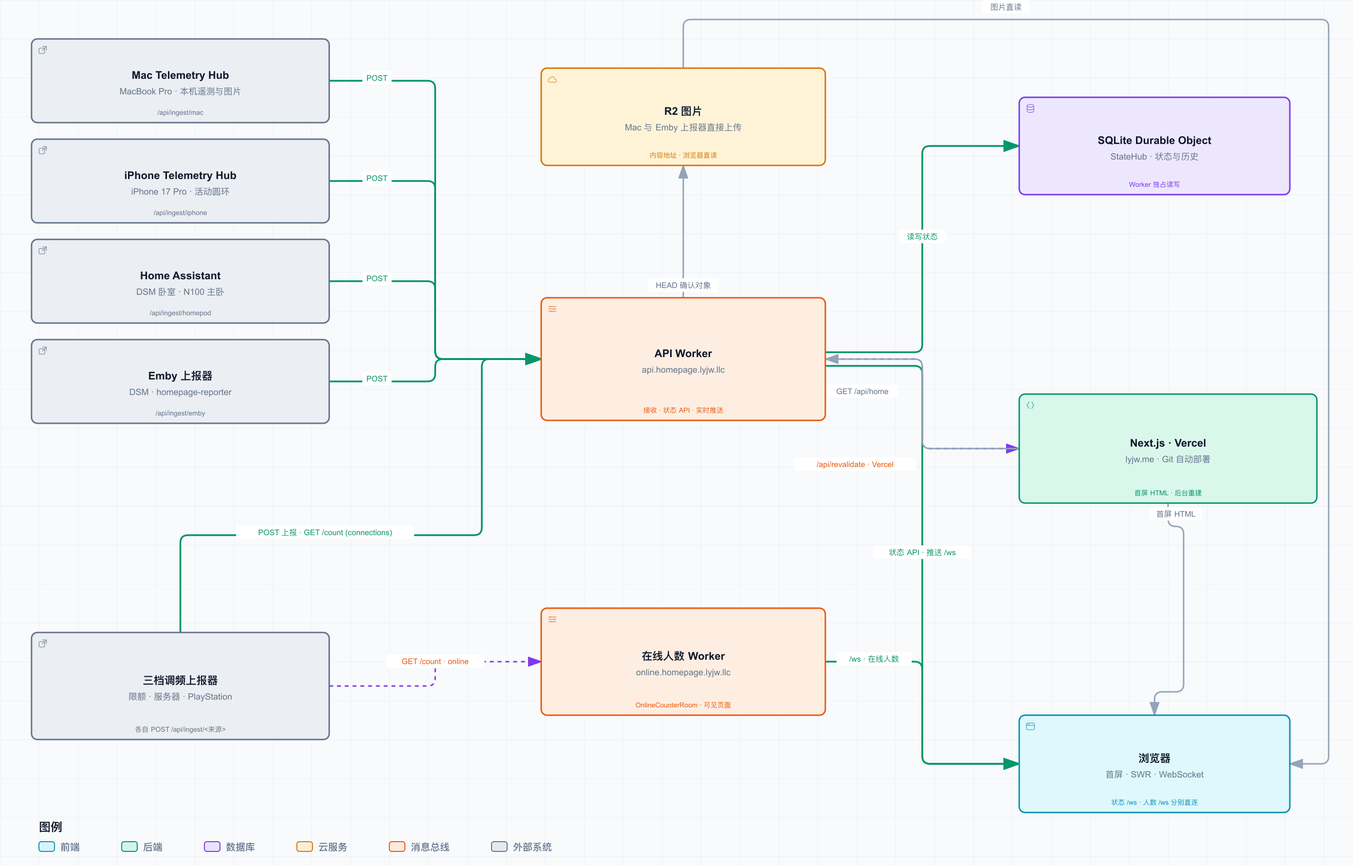
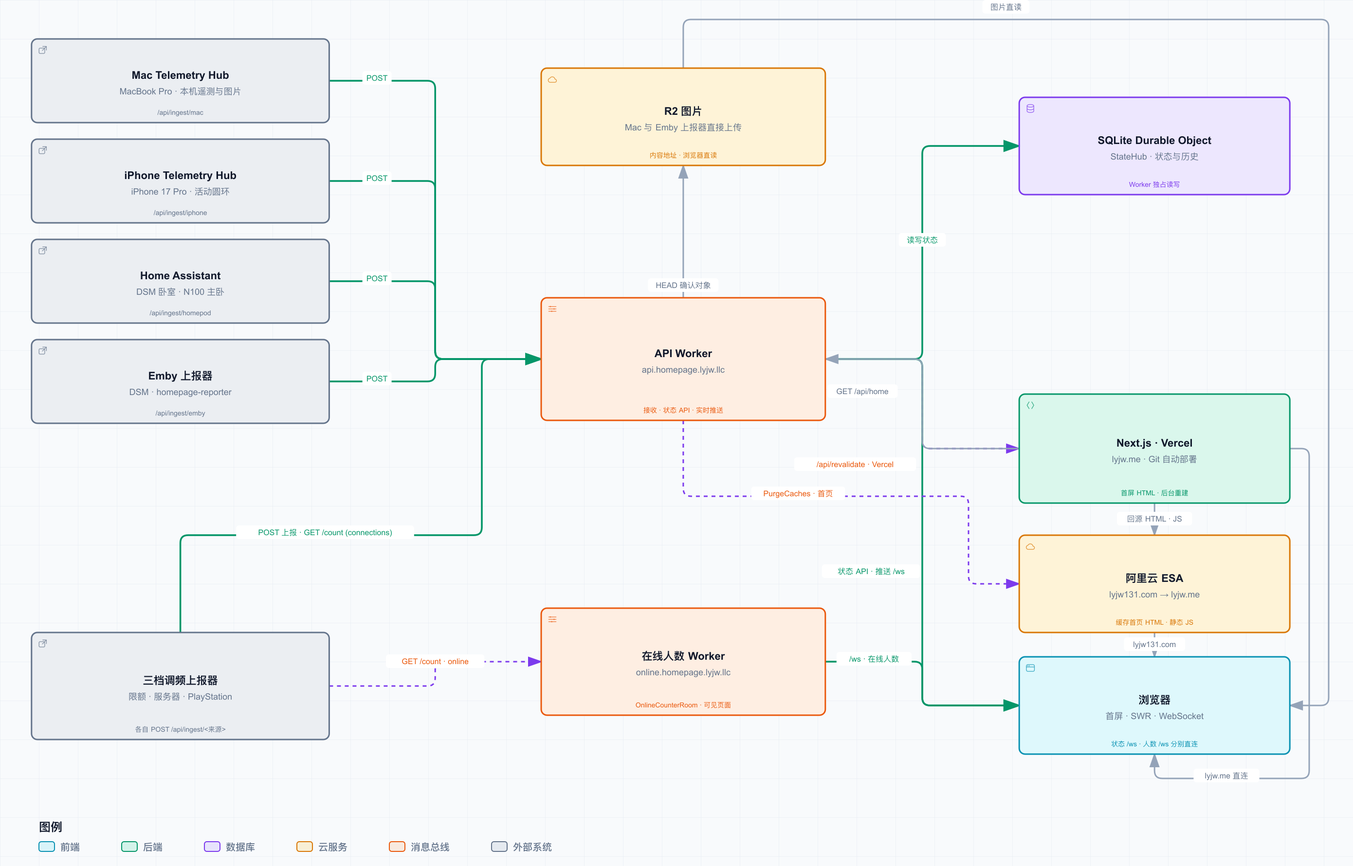
docs(architecture): 补全 ESA 首页缓存与并行刷新链路

diff --git a/docs/architecture.html b/docs/architecture.html
@@ -4952,8 +4952,8 @@
       </div>
     </div>
 
-    <script id="archify-guided-views-data" type="application/json">[{"id":"reporting","label":"全部上报器","focus":["mac_hub","iphone_hub","home_assistant","emby_proxy","api","cadence_reporters"],"note":"七个数据来源、八个运行实例，统一直连 API Worker。"},{"id":"sites","label":"站点与数据后端","focus":["api","state_hub","sites","visitors","online_counter"],"note":"API Worker 保存状态并实时推送，在线人数独立部署；Vercel 读取首屏快照。"},{"id":"cadence","label":"在线人数与调频","focus":["cadence_reporters","api","online_counter","visitors"],"note":"三个上报器并行读取 online 与 connections：页面可见走快档，仅后台打开走中档，无人走闲档。单端失败仅该端归零。"},{"id":"assets","label":"图片链路","focus":["mac_hub","emby_proxy","images","visitors"],"note":"Mac 和 Emby 上报器将图片直接上传 R2，浏览器直接取图。"}]</script>
-    <script id="archify-source-evidence-data" type="application/json">{"schemaVersion":1,"verified":true,"repository":{"url":"https://github.com/LYJW131/lyjwpage","revision":"764cbbc44546705cd11c4170619fb195383a2b04","shortRevision":"764cbbc"},"referenceCount":17,"nodes":{"mac_hub":[{"path":"docs/reporter-endpoints.md","href":"https://github.com/LYJW131/lyjwpage/blob/764cbbc44546705cd11c4170619fb195383a2b04/docs/reporter-endpoints.md"}],"iphone_hub":[{"path":"reporters/iphone-telemetry-hub/README.md","href":"https://github.com/LYJW131/lyjwpage/blob/764cbbc44546705cd11c4170619fb195383a2b04/reporters/iphone-telemetry-hub/README.md"}],"home_assistant":[{"path":"docs/reporter-endpoints.md","href":"https://github.com/LYJW131/lyjwpage/blob/764cbbc44546705cd11c4170619fb195383a2b04/docs/reporter-endpoints.md"}],"emby_proxy":[{"path":"reporters/emby-reporter/README.md","href":"https://github.com/LYJW131/lyjwpage/blob/764cbbc44546705cd11c4170619fb195383a2b04/reporters/emby-reporter/README.md"}],"api":[{"path":"workers/api/src/index.ts","href":"https://github.com/LYJW131/lyjwpage/blob/764cbbc44546705cd11c4170619fb195383a2b04/workers/api/src/index.ts"},{"path":"workers/api/wrangler.toml","href":"https://github.com/LYJW131/lyjwpage/blob/764cbbc44546705cd11c4170619fb195383a2b04/workers/api/wrangler.toml"}],"state_hub":[{"path":"workers/api/src/state-hub.ts","href":"https://github.com/LYJW131/lyjwpage/blob/764cbbc44546705cd11c4170619fb195383a2b04/workers/api/src/state-hub.ts"}],"sites":[{"path":"src/app/page.tsx","href":"https://github.com/LYJW131/lyjwpage/blob/764cbbc44546705cd11c4170619fb195383a2b04/src/app/page.tsx"},{"path":"src/lib/public-home.ts","href":"https://github.com/LYJW131/lyjwpage/blob/764cbbc44546705cd11c4170619fb195383a2b04/src/lib/public-home.ts"}],"visitors":[{"path":"src/lib/live-socket.ts","href":"https://github.com/LYJW131/lyjwpage/blob/764cbbc44546705cd11c4170619fb195383a2b04/src/lib/live-socket.ts"},{"path":"src/hooks/use-online-count.ts","href":"https://github.com/LYJW131/lyjwpage/blob/764cbbc44546705cd11c4170619fb195383a2b04/src/hooks/use-online-count.ts"}],"images":[{"path":"src/lib/r2-assets.ts","href":"https://github.com/LYJW131/lyjwpage/blob/764cbbc44546705cd11c4170619fb195383a2b04/src/lib/r2-assets.ts"}],"cadence_reporters":[{"path":"reporters/agent-limits-reporter/src/cadence.ts","href":"https://github.com/LYJW131/lyjwpage/blob/764cbbc44546705cd11c4170619fb195383a2b04/reporters/agent-limits-reporter/src/cadence.ts"},{"path":"reporters/server-reporter/reporter.py","href":"https://github.com/LYJW131/lyjwpage/blob/764cbbc44546705cd11c4170619fb195383a2b04/reporters/server-reporter/reporter.py"},{"path":"workers/playstation-reporter/src/index.ts","href":"https://github.com/LYJW131/lyjwpage/blob/764cbbc44546705cd11c4170619fb195383a2b04/workers/playstation-reporter/src/index.ts"}],"online_counter":[{"path":"workers/online-counter/src/index.ts","href":"https://github.com/LYJW131/lyjwpage/blob/764cbbc44546705cd11c4170619fb195383a2b04/workers/online-counter/src/index.ts"},{"path":"workers/online-counter/wrangler.jsonc","href":"https://github.com/LYJW131/lyjwpage/blob/764cbbc44546705cd11c4170619fb195383a2b04/workers/online-counter/wrangler.jsonc"}]}}</script>
+    <script id="archify-guided-views-data" type="application/json">[{"id":"reporting","label":"全部上报器","focus":["mac_hub","iphone_hub","home_assistant","emby_proxy","api","cadence_reporters"],"note":"七个数据来源、八个运行实例，统一直连 API Worker。"},{"id":"sites","label":"站点与数据后端","focus":["api","state_hub","sites","visitors","online_counter","esa"],"note":"Vercel 提供首屏；lyjw131.com 经 ESA 回源 lyjw.me 并缓存 HTML 与静态 JS。API 并行通知两层缓存。"},{"id":"cadence","label":"在线人数与调频","focus":["cadence_reporters","api","online_counter","visitors"],"note":"三个上报器并行读取 online 与 connections：页面可见走快档，仅后台打开走中档，无人走闲档。单端失败仅该端归零。"},{"id":"assets","label":"图片链路","focus":["mac_hub","emby_proxy","images","visitors"],"note":"Mac 和 Emby 上报器将图片直接上传 R2，浏览器直接取图。"}]</script>
+    <script id="archify-source-evidence-data" type="application/json">{"schemaVersion":1,"verified":true,"repository":{"url":"https://github.com/LYJW131/lyjwpage","revision":"1256daeda7dfe54838e0972e30f3f4f972600864","shortRevision":"1256dae"},"referenceCount":19,"nodes":{"mac_hub":[{"path":"docs/reporter-endpoints.md","href":"https://github.com/LYJW131/lyjwpage/blob/1256daeda7dfe54838e0972e30f3f4f972600864/docs/reporter-endpoints.md"}],"iphone_hub":[{"path":"reporters/iphone-telemetry-hub/README.md","href":"https://github.com/LYJW131/lyjwpage/blob/1256daeda7dfe54838e0972e30f3f4f972600864/reporters/iphone-telemetry-hub/README.md"}],"home_assistant":[{"path":"docs/reporter-endpoints.md","href":"https://github.com/LYJW131/lyjwpage/blob/1256daeda7dfe54838e0972e30f3f4f972600864/docs/reporter-endpoints.md"}],"emby_proxy":[{"path":"reporters/emby-reporter/README.md","href":"https://github.com/LYJW131/lyjwpage/blob/1256daeda7dfe54838e0972e30f3f4f972600864/reporters/emby-reporter/README.md"}],"api":[{"path":"workers/api/src/index.ts","href":"https://github.com/LYJW131/lyjwpage/blob/1256daeda7dfe54838e0972e30f3f4f972600864/workers/api/src/index.ts"},{"path":"workers/api/wrangler.toml","href":"https://github.com/LYJW131/lyjwpage/blob/1256daeda7dfe54838e0972e30f3f4f972600864/workers/api/wrangler.toml"}],"state_hub":[{"path":"workers/api/src/state-hub.ts","href":"https://github.com/LYJW131/lyjwpage/blob/1256daeda7dfe54838e0972e30f3f4f972600864/workers/api/src/state-hub.ts"}],"sites":[{"path":"src/app/page.tsx","href":"https://github.com/LYJW131/lyjwpage/blob/1256daeda7dfe54838e0972e30f3f4f972600864/src/app/page.tsx"},{"path":"src/lib/public-home.ts","href":"https://github.com/LYJW131/lyjwpage/blob/1256daeda7dfe54838e0972e30f3f4f972600864/src/lib/public-home.ts"}],"visitors":[{"path":"src/lib/live-socket.ts","href":"https://github.com/LYJW131/lyjwpage/blob/1256daeda7dfe54838e0972e30f3f4f972600864/src/lib/live-socket.ts"},{"path":"src/hooks/use-online-count.ts","href":"https://github.com/LYJW131/lyjwpage/blob/1256daeda7dfe54838e0972e30f3f4f972600864/src/hooks/use-online-count.ts"}],"images":[{"path":"src/lib/r2-assets.ts","href":"https://github.com/LYJW131/lyjwpage/blob/1256daeda7dfe54838e0972e30f3f4f972600864/src/lib/r2-assets.ts"}],"cadence_reporters":[{"path":"reporters/agent-limits-reporter/src/cadence.ts","href":"https://github.com/LYJW131/lyjwpage/blob/1256daeda7dfe54838e0972e30f3f4f972600864/reporters/agent-limits-reporter/src/cadence.ts"},{"path":"reporters/server-reporter/reporter.py","href":"https://github.com/LYJW131/lyjwpage/blob/1256daeda7dfe54838e0972e30f3f4f972600864/reporters/server-reporter/reporter.py"},{"path":"workers/playstation-reporter/src/index.ts","href":"https://github.com/LYJW131/lyjwpage/blob/1256daeda7dfe54838e0972e30f3f4f972600864/workers/playstation-reporter/src/index.ts"}],"online_counter":[{"path":"workers/online-counter/src/index.ts","href":"https://github.com/LYJW131/lyjwpage/blob/1256daeda7dfe54838e0972e30f3f4f972600864/workers/online-counter/src/index.ts"},{"path":"workers/online-counter/wrangler.jsonc","href":"https://github.com/LYJW131/lyjwpage/blob/1256daeda7dfe54838e0972e30f3f4f972600864/workers/online-counter/wrangler.jsonc"}],"esa":[{"path":"workers/api/src/esa-cache.ts","href":"https://github.com/LYJW131/lyjwpage/blob/1256daeda7dfe54838e0972e30f3f4f972600864/workers/api/src/esa-cache.ts"},{"path":"workers/api/wrangler.toml","href":"https://github.com/LYJW131/lyjwpage/blob/1256daeda7dfe54838e0972e30f3f4f972600864/workers/api/wrangler.toml"}]}}</script>
     <script id="archify-i18n-data" type="application/json">{"locale":"zh-CN","messages":{"viewer.kind.frontend":"前端","viewer.kind.backend":"后端","viewer.kind.database":"数据库","viewer.kind.cloud":"云服务","viewer.kind.security":"安全","viewer.kind.messagebus":"消息总线","viewer.kind.external":"外部系统","viewer.kind.neutral":"中性","viewer.kind.node":"节点","viewer.kind.start":"开始","viewer.kind.active":"活动","viewer.kind.waiting":"等待","viewer.kind.decision":"决策","viewer.kind.success":"成功","viewer.kind.failure":"失败","viewer.toolbar.actions":"图表操作","viewer.theme.toggle.title":"切换主题（T）","viewer.theme.toggle":"切换颜色主题","viewer.theme.dark":"深色","viewer.theme.light":"浅色","viewer.preset.choose.title":"选择视觉风格（S 循环切换）","viewer.preset.choose":"选择视觉风格","viewer.preset.style":"风格","viewer.preset.menu":"视觉风格","viewer.preset.identity":"视觉表达","viewer.preset.cycles":"S 循环切换","viewer.preset.classic":"经典","viewer.preset.classic.short":"经典","viewer.preset.classic.hint":"稳定的技术默认风格","viewer.preset.flow":"信号流","viewer.preset.flow.short":"流动","viewer.preset.flow.hint":"突出动态流向","viewer.preset.blueprint":"蓝图","viewer.preset.blueprint.hint":"工程评审","viewer.preset.editorial":"编辑风格","viewer.preset.editorial.hint":"适合发布与上线说明","viewer.preset.badge.signalFlow":"信号流","viewer.preset.badge.blueprint":"蓝图 / 修订 01","viewer.preset.badge.editorial":"编辑风格 / 现场笔记","viewer.preset.badge.editorialPlate":"ARCHIFY / 图版 04","viewer.preset.current":"当前视觉风格：{style}。选择视觉风格","viewer.motion.live":"动态","viewer.motion.still":"静态","viewer.motion.pause":"暂停动效","viewer.motion.resume":"恢复动效","viewer.motion.reduced":"已根据减少动态效果偏好暂停动效","viewer.motion.hidden":"页面不可见时已暂停动效","viewer.motion.yielding":"暂停动效；当前让位于{owner}","viewer.motion.yielding.title":"动态预览已启用 · 正在让位于{owner}","viewer.owner.story":"引导故事","viewer.owner.chapter":"当前章节","viewer.owner.chapterPreview":"章节差异预览","viewer.owner.handoff":"章节交接","viewer.owner.route":"路径探测","viewer.owner.lens":"语义透镜","viewer.owner.relationship":"关系预览","viewer.owner.intent":"意图追踪","viewer.owner.focus":"语义聚焦","viewer.owner.legend":"图例预览","viewer.owner.reader":"读者交互","viewer.present.enter":"进入演示模式","viewer.present.enter.title":"演示模式（F）","viewer.present.exit":"退出演示模式","viewer.present.exit.title":"退出演示模式（F 或 Escape）","viewer.present.present":"演示","viewer.present.exit.label":"退出","viewer.export.button":"导出","viewer.export.button.title":"导出图表（E）","viewer.export.diagram":"导出图表","viewer.export.menu":"导出","viewer.export.subtitle":"便携、整洁的输出","viewer.export.share":"分享","viewer.export.shareCard":"分享卡片","viewer.export.routeShareCard":"路径分享卡片","viewer.export.reachShareCard":"可达范围分享卡片","viewer.export.copyShareCard":"复制分享卡片","viewer.export.copyDiagram":"复制图表","viewer.export.clipboardPng":"复制 PNG 到剪贴板","viewer.export.raster":"位图","viewer.export.image":"图像","viewer.export.lossless":"无损图像","viewer.export.compact":"紧凑图像","viewer.export.modern":"现代图像格式","viewer.export.vectorMotion":"矢量与动效","viewer.export.vectorMotion.heading":"矢量与动效","viewer.export.editable":"可编辑矢量图","viewer.export.motion6s":"6 秒动效","viewer.export.unsupported":"当前浏览器不支持","viewer.export.clipboardUnsupported":"当前浏览器不支持写入图片剪贴板","viewer.export.clipboardUnsupported.period":"当前浏览器不支持写入图片剪贴板。","viewer.export.clipboardUnsupported.short":"此浏览器不支持写入图片剪贴板。","viewer.export.motionUnavailable":"当前浏览器无法录制动效","viewer.export.webmUnavailable":"当前浏览器不支持 WebM","viewer.export.failed":"导出失败：{message}","viewer.export.unknownVariant":"未知的分享卡片类型：{variant}","viewer.export.routeRequired":"请先追踪路径，再导出路径分享卡片","viewer.export.reachRequired":"请先追踪编写可达范围，再导出可达范围分享卡片","viewer.export.unknown":"未知错误","viewer.export.routeFailed":"路径分享卡片导出失败：{message}","viewer.export.reachFailed":"可达范围分享卡片导出失败：{message}","viewer.export.copyFailed":"复制失败：{message}","viewer.export.copiedPng":"已将 PNG 复制到剪贴板","viewer.export.copiedShare":"已复制分享卡片","viewer.export.downloadedShare":"已下载分享卡片","viewer.export.downloadedRoute":"已下载路径分享卡片","viewer.export.downloadedReach":"已下载可达范围分享卡片","viewer.export.downloadedWebm":"已下载 WebM","viewer.export.recording":"正在录制 6 秒动效…","viewer.export.card.routeSummary.one":"路径：{source} → {target} · {count} 个有向跳转","viewer.export.card.routeSummary.other":"路径：{source} → {target} · {count} 个有向跳转","viewer.export.card.reachSummary":"从{origin}开始的编写{direction} · {nodes} · {links} · 最深 {hops}","viewer.export.card.node.one":"{count} 个节点","viewer.export.card.node.other":"{count} 个节点","viewer.export.card.link.one":"{count} 条连接","viewer.export.card.link.other":"{count} 条连接","viewer.export.card.hop.one":"{count} 跳","viewer.export.card.hop.other":"{count} 跳","viewer.export.card.routeBadge":"ARCHIFY · 路径 · {hops}","viewer.export.card.reachBadge":"ARCHIFY · {direction}可达范围","viewer.export.card.defaultBadge":"ARCHIFY · {preset} · {theme}","viewer.export.direction.upstream":"上游","viewer.export.direction.downstream":"下游","viewer.export.error.canvasUnavailable":"无法为{label}使用画布","viewer.export.error.contextUnavailable":"无法为{label}创建二维画布上下文","viewer.export.error.toBlobUnavailable":"{label}无法使用 canvas.toBlob","viewer.export.error.toBlobNull":"{label}的 canvas.toBlob 未返回数据","viewer.export.error.variantsCombined":"无法同时组合多种分享卡片类型","viewer.export.error.viewerState":"分享卡片导出无法移除临时 Viewer 状态","viewer.export.error.routeState":"路径卡片导出无法安全保留已解析路径","viewer.export.error.reachState":"可达范围卡片导出无法安全保留编写的可达范围","viewer.export.error.webmRequirements":"WebM 动效导出需要追踪动画及浏览器 MediaRecorder 支持","viewer.export.error.mediaRecorder":"MediaRecorder 录制失败","viewer.export.error.emptyWebm":"MediaRecorder 生成了空的 WebM","viewer.export.error.webmBackground":"无法为 WebM 导出加载 SVG 背景","viewer.guided.region":"图表引导视图","viewer.guided.previous":"上一个引导视图","viewer.guided.previous.title":"上一个引导视图（[）","viewer.guided.next":"下一个引导视图","viewer.guided.next.title":"下一个引导视图（]）","viewer.guided.views":"引导视图","viewer.guided.explore":"探索此系统","viewer.guided.intro":"沿精选路径逐步查看，而不改变源图表。","viewer.guided.trail":"故事轨迹","viewer.guided.beat":"节点","viewer.guided.nextBeat":"下一步","viewer.guided.play":"播放引导故事","viewer.guided.play.title":"播放引导故事（P）","viewer.guided.pause":"暂停引导故事","viewer.guided.pause.title":"暂停引导故事（P）","viewer.guided.replay":"重播引导故事","viewer.guided.replay.title":"重播引导故事（P）","viewer.guided.playStory":"播放故事","viewer.guided.pauseStory":"暂停","viewer.guided.replayStory":"重播故事","viewer.guided.motionUnavailable":"静态模式下无法播放故事","viewer.guided.enableMotion":"切换为动态模式以播放引导故事","viewer.guided.selectBeatLink":"选择故事节点以复制其精确链接","viewer.guided.copyMoment":"复制此刻","viewer.guided.momentCopied":"已复制时刻链接","viewer.guided.momentCopyFailed":"无法复制故事时刻链接","viewer.guided.copied":"已复制","viewer.guided.copyFailed":"复制失败","viewer.guided.showAll":"显示全部","viewer.guided.showAll.aria":"显示完整图表","viewer.guided.chapters":"故事章节","viewer.guided.storyTrail":"{label}的故事轨迹：{count} 个节点","viewer.guided.chapter.open":"打开第 {index}/{total} 章：{label}，{count} 个停靠点","viewer.guided.chapter.current":"当前第 {index}/{total} 章：{label}，{count} 个停靠点","viewer.guided.chapter.selectedNodes":"已选择 {count} 个节点","viewer.guided.chapter.stops":"{count} 个停靠点","viewer.guided.chapter.stop.one":"{count} 个停靠点","viewer.guided.chapter.stop.other":"{count} 个停靠点","viewer.guided.chapter.current.title":"{label} — 当前章节，{count} 个停靠点","viewer.guided.chapter.delta.expanded":"{stay} 个保留，{enter} 个进入，{leave} 个离开","viewer.guided.chapter.delta.aria":"打开第 {index}/{total} 章：{label}。章节聚焦差异：{delta}","viewer.guided.chapter.delta.title":"{label} — 章节聚焦 {delta}","viewer.guided.handoff":"{from} → {to} · 经由{label}","viewer.guided.share.chapter":"章节 {index} / {total}","viewer.guided.share.initial":"章节 01 / 01","viewer.guided.share.default":"引导章节","viewer.guided.state.ready":"就绪","viewer.guided.state.playing":"播放中","viewer.guided.state.settled":"已完成","viewer.guided.state.paused":"已暂停","viewer.guided.state.pinned":"已固定","viewer.guided.state.still":"静态","viewer.guided.share.step":"步骤 {index} / {total} · {label}","viewer.guided.share.staticMoment":"{step} · 静态时刻","viewer.guided.share.complete":"{count} 个步骤已完成 · {note}","viewer.guided.share.settled":"路径已稳定，可供阅读。","viewer.guided.share.staticPath":"{count} 个步骤 · 静态路径","viewer.guided.share.ready":"{count} 个步骤 · 就绪","viewer.guided.share.aria":"{state}，第 {index}/{total} 章：{label}。{beat}。{route}","viewer.guided.beat.start":"节点 {index} / {total} · {label} · 起点","viewer.guided.beat.forward":"节点 {index} / {total} · {from} → {to}","viewer.guided.beat.reverse":"节点 {index} / {total} · {from} → {to} · 反向编写连接","viewer.guided.beat.multiple":"节点 {index} / {total} · {from} ⇄ {to} · {count} 条编写连接","viewer.guided.beat.group":"节点 {index} / {total} · {from} · {to} · 分组 · 无直接连接","viewer.guided.beat.aria.prefix":"故事节点 {index}/{total}：{label}。","viewer.guided.beat.aria.start":"起点。","viewer.guided.beat.aria.forward":"从{from}经一条正向编写关系到达。","viewer.guided.beat.aria.reverse":"从{from}出发；编写关系实际由{to}指向{from}。","viewer.guided.beat.aria.multiple":"从{from}经 {count} 条编写关系到达；不使用任意动效。","viewer.guided.beat.aria.group":"与{from}分组展示，没有直接编写关系。","viewer.guided.caption.start":"起点","viewer.guided.caption.grouped":"分组过渡 · 无直接编写连接","viewer.guided.caption.more":" +另外 {count} 条","viewer.guided.caption.reverse":"反向编写关系","viewer.guided.caption.relationships":"{count} 条编写关系","viewer.guided.caption.relationship":"编写关系","viewer.guided.caption.direction":"编写方向：{from} → {to}","viewer.guided.caption.starting":"编写起点","viewer.guided.beatLink":"复制当前故事时刻链接：第 {index}/{total} 个节点：{label}","viewer.guided.noStory":"此图表没有编写引导故事。","viewer.guide.eyebrow":"图表指南","viewer.guide.close":"关闭图表指南","viewer.guide.inspecting":"正在检查已编译语义","viewer.guide.actions":"图表探索操作","viewer.guide.find":"查找任意节点","viewer.guide.find.hint":"搜索标签、职责、类型和稳定 ID。","viewer.guide.route":"追踪路径","viewer.guide.route.aria":"追踪有向路径","viewer.guide.route.hint":"查看两个语义节点如何按编写方向连接。","viewer.guide.map":"查看完整系统","viewer.guide.map.hint":"打开带实时视口和稳定节点的语义雷达。","viewer.guide.lens":"比较语义类型","viewer.guide.lens.hint":"统计角色、显示流量并比较直接编写的连接。","viewer.guide.story":"播放引导故事","viewer.guide.story.hint":"浏览已编写的章节和真实关系。","viewer.guide.present":"进入演示模式","viewer.guide.present.hint":"让实时图表占满视口，同时不改变导出。","viewer.guide.shortcuts":"其他键盘快捷键","viewer.guide.shortcut.export":"导出","viewer.guide.shortcut.theme":"主题","viewer.guide.shortcut.style":"风格","viewer.guide.shortcut.reset":"重置","viewer.guide.shortcut.zoomIn":"放大","viewer.guide.shortcut.zoomOut":"缩小","viewer.guide.shortcut.close":"关闭","viewer.guide.facts":"{nodes} · {relationships} · {views}","viewer.guide.fact.node.one":"{count} 个语义节点","viewer.guide.fact.node.other":"{count} 个语义节点","viewer.guide.fact.relationship.one":"{count} 条关系","viewer.guide.fact.relationship.other":"{count} 条关系","viewer.guide.fact.view.one":"{count} 个引导视图","viewer.guide.fact.view.other":"{count} 个引导视图","viewer.guide.story.available.one":"浏览 {count} 个已编写章节及其真实关系。","viewer.guide.story.available.other":"浏览 {count} 个已编写章节及其真实关系。","viewer.guide.story.unavailable":"此图表没有编写引导故事。","viewer.guide.open":"打开图表指南","viewer.guide.noStory":"此图表没有编写引导故事。","viewer.finder.title":"查找节点","viewer.finder.close":"关闭节点查找器","viewer.finder.placeholder":"搜索标签或 ID","viewer.finder.search":"搜索图表节点","viewer.finder.results":"图表节点","viewer.finder.empty":"没有匹配的节点","viewer.finder.result.focus":"聚焦{label}","viewer.finder.result.routeStart":"选择{label}作为路径起点","viewer.finder.result.routeTarget":"选择{label}作为路径终点，{links}","viewer.finder.status.empty":"没有匹配的节点","viewer.finder.status.count.one":"{count} 个匹配节点","viewer.finder.status.count.other":"{count} 个匹配节点","viewer.finder.noun.nodes":"个节点","viewer.finder.link.one":"{count} 条连接","viewer.finder.link.other":"{count} 条连接","viewer.finder.result.focus.one":"聚焦{label}，{count} 条相关连接","viewer.finder.result.focus.other":"聚焦{label}，{count} 条相关连接","viewer.finder.status.filtered":"{visible}/{available} {noun}","viewer.finder.status.all":"{available} {noun}","viewer.passport.eyebrow":"语义护照","viewer.passport.metadata":"节点元数据","viewer.passport.evidence":"已验证的源代码证据","viewer.passport.verified":"已验证来源","viewer.passport.reach":"编写可达范围","viewer.passport.reach.trace":"追踪编写的可达性","viewer.passport.upstream":"上游","viewer.passport.downstream":"下游","viewer.passport.upstream.trace":"追踪上游编写可达性","viewer.passport.downstream.trace":"追踪下游编写可达性","viewer.passport.close":"关闭语义护照","viewer.passport.copy":"复制链接","viewer.passport.copy.focus":"复制聚焦节点的链接","viewer.passport.relations":"关系","viewer.passport.relations.show":"显示关联关系","viewer.passport.relations.hide":"隐藏关联关系","viewer.passport.relations.list":"关联关系","viewer.passport.copyRelation":"复制关系","viewer.passport.copyNode":"复制节点","viewer.passport.copyPinned":"复制固定关系的链接","viewer.passport.copySource":"复制来源节点的链接","viewer.passport.copy.focused.success":"已复制聚焦节点链接","viewer.passport.copy.pinned.success":"已复制固定关系链接","viewer.passport.copy.focused.failed":"无法复制聚焦节点链接","viewer.passport.copy.pinned.failed":"无法复制固定关系链接","viewer.passport.relationship.none":"没有关联关系","viewer.passport.relationship.count.one":"{count} 条关系","viewer.passport.relationship.count.other":"{count} 条关系","viewer.passport.relationship.show.one":"显示 {count} 条关联关系","viewer.passport.relationship.show.other":"显示 {count} 条关联关系","viewer.passport.relationship.summary":"{out} 条出向 · {in} 条入向{loops}","viewer.passport.relationship.loops":" · {count} 条自环","viewer.passport.relationship.explorer":"直接关系浏览器","viewer.passport.relationship.help":"使用方向键浏览关系。按 Enter 或空格键固定详情；按 Escape 清除。","viewer.passport.relationship.loopsBack":"回环","viewer.passport.relationship.connectsTo":"连接到","viewer.passport.relationship.connectsFrom":"连接自","viewer.passport.relationship.pinned":"已固定关系 · {from} → {to} · {label}","viewer.passport.relationship.inspect":"检查第 {index}/{total} 条关系：{from} 到 {to}，{label}。按 Enter 查看详情。","viewer.passport.relationship.group.out":"出向","viewer.passport.relationship.group.in":"入向","viewer.passport.relationship.group.loop":"自环","viewer.passport.relationship.row":"{group}：{relationship}，{neighbor}","viewer.passport.relationship.direction.out":"出 →","viewer.passport.relationship.direction.in":"← 入","viewer.passport.relationship.direction.loop":"自环","viewer.passport.sourceCount.one":"{count} 个已验证来源引用","viewer.passport.sourceCount.other":"{count} 个已验证来源引用","viewer.passport.sourceMarker":"来源","viewer.passport.beacon.one":"{count} 个已验证来源；聚焦此节点以检查","viewer.passport.beacon.other":"{count} 个已验证来源；聚焦此节点以检查","viewer.passport.repository.open":"打开已验证的仓库修订版本 {revision}","viewer.passport.source.open":"打开修订版本 {revision} 中已验证的来源 {path}","viewer.passport.source.openLink":"打开 ↗","viewer.passport.reach.upstream.one":"追踪 {count} 个上游编写节点","viewer.passport.reach.upstream.other":"追踪 {count} 个上游编写节点","viewer.passport.reach.downstream.one":"追踪 {count} 个下游编写节点","viewer.passport.reach.downstream.other":"追踪 {count} 个下游编写节点","viewer.passport.reach.noUpstream":"没有上游编写节点","viewer.passport.reach.noDownstream":"没有下游编写节点","viewer.passport.reach.status":"{direction} · {nodes} 个节点 · {links} 条连接 · 最深 {hops} 跳","viewer.route.eyebrow":"路径探测","viewer.route.start":"选择起点节点","viewer.route.start.find":"查找起点","viewer.route.start.find.aria":"查找路径起点","viewer.route.copy":"复制链接","viewer.route.copy.aria":"复制已追踪路径的链接","viewer.route.clear":"清除","viewer.route.clear.aria":"清除路径探测","viewer.route.traced":"已追踪路径","viewer.route.pickTwo":"在图表中选择两个语义节点","viewer.route.pickOne":"在图表中选择一个语义节点","viewer.route.controls":"路径旅程控制","viewer.route.previous":"上一个路径位置","viewer.route.play":"播放路径旅程","viewer.route.pause":"暂停路径旅程","viewer.route.replay":"重播路径旅程","viewer.route.next":"下一个路径位置","viewer.route.journey":"旅程","viewer.route.pause.label":"暂停","viewer.route.replay.label":"重播","viewer.route.overview":"总览","viewer.route.overview.aria":"显示完整路径总览","viewer.route.instructions":"先选择来源，再选择目标；方向很重要。","viewer.route.destination":"选择从{label}出发的目标","viewer.route.destination.find":"查找目标","viewer.route.destination.find.aria":"查找可达的路径目标","viewer.route.differentDestination":"选择其他目标","viewer.route.distinct":"一条路径需要两个不同的语义节点。","viewer.route.unreachable":"没有通往{label}的有向路径","viewer.route.unreachable.detail":"从{source}无法到达{target}。请选择高亮的目标。","viewer.route.start.instructions":"选择来源。下一步只会显示有向可达的目标。","viewer.route.copy.success":"已复制路径链接","viewer.route.copy.failed":"无法复制路径链接","viewer.route.position":"路径位置 {index}/{total}：{label}","viewer.route.step":"第 {index}/{total} 步 · {phase} · {label}","viewer.route.motionRequired":"自动旅程需要动态模式","viewer.route.trigger.clear":"清除已追踪路径","viewer.route.overview.status":"{nodes} · {hops} · 最短编写路径","viewer.route.overview.node.one":"{count} 个节点","viewer.route.overview.node.other":"{count} 个节点","viewer.route.overview.hop.one":"{count} 个有向跳转","viewer.route.overview.hop.other":"{count} 个有向跳转","viewer.route.phase.playing":"播放中","viewer.route.phase.complete":"已完成","viewer.route.phase.inspecting":"检查中","viewer.route.destination.count.one":"有 {count} 个有向目标可用。请选择高亮节点。","viewer.route.destination.count.other":"有 {count} 个有向目标可用。请选择高亮节点。","viewer.route.noOutgoing":"此处没有可用的出向路径。请清除后选择其他来源。","viewer.route.result.title":"{source} 到 {target}","viewer.route.finder.source.title":"选择路径起点","viewer.route.finder.source.placeholder":"搜索路径来源","viewer.route.finder.source.empty":"没有匹配的路径来源","viewer.route.finder.source.results":"可作为路径起点的节点","viewer.route.finder.source.noun":"个路径来源","viewer.route.finder.source.badge":"起点","viewer.route.finder.target.title":"从{label}出发的目标","viewer.route.finder.target.placeholder":"搜索可达目标","viewer.route.finder.target.empty":"没有匹配的可达目标","viewer.route.finder.target.results":"可达路径目标","viewer.route.finder.target.noun":"个可达目标","viewer.route.hop.one":"{count} 跳","viewer.route.hop.other":"{count} 跳","viewer.lens.eyebrow":"语义透镜","viewer.lens.title":"比较系统角色","viewer.lens.close":"关闭语义透镜","viewer.lens.instruction":"最多选择两种语义类型。选择一种可显示其真实流量；选择两种只比较直接编写的关系。","viewer.lens.kinds":"语义类型","viewer.lens.choose":"选择一种类型以检查其节点和相连关系。","viewer.lens.copy":"复制语义透镜链接","viewer.lens.clear":"清除语义透镜","viewer.lens.open":"打开语义透镜","viewer.lens.openActive":"打开当前语义透镜","viewer.lens.legend":"语义图例","viewer.lens.legend.inspect.one":"检查{label}，{count} 个节点","viewer.lens.legend.inspect.other":"检查{label}，{count} 个节点","viewer.lens.kind.count.one":"{label}，{count} 个节点","viewer.lens.kind.count.other":"{label}，{count} 个节点","viewer.lens.compare.one":"{first} → {second}：{forward} · {second} → {first}：{reverse} · 共 {count} 条直接关系","viewer.lens.compare.other":"{first} → {second}：{forward} · {second} → {first}：{reverse} · 共 {count} 条直接关系","viewer.lens.single":"{nodes} · {relationships} · 已连接节点保持可见","viewer.lens.node.one":"{count} 个{label}节点","viewer.lens.node.other":"{count} 个{label}节点","viewer.lens.relationship.one":"{count} 条相连关系","viewer.lens.relationship.other":"{count} 条相连关系","viewer.radar.title":"语义雷达","viewer.radar.building":"正在构建总览","viewer.radar.openFull":"打开完整语义雷达","viewer.radar.open":"打开雷达","viewer.radar.close":"关闭语义雷达","viewer.radar.surface":"图表总览。点击节点进行聚焦，或使用方向键平移。","viewer.radar.click":"点击节点","viewer.radar.drag":"拖动平移","viewer.radar.space":"语义雷达需要更多地图可见空间。","viewer.radar.nodes":"语义图表雷达节点","viewer.radar.focus":"从语义雷达聚焦{label}","viewer.radar.status":"{count} 个节点 · {viewport}","viewer.radar.fullMap":"{count} 个节点 · 完整地图","viewer.radar.compacted":"已收紧雷达，避免遮挡语义护照或地图控件。","viewer.radar.cancelWaiting":"取消等待更多地图空间的语义雷达","viewer.radar.needsSpace":"语义雷达需要更多可见地图空间","viewer.radar.viewport.full":"完整地图","viewer.radar.viewport.width":"宽度 {percent}%","viewer.radar.viewport.scale":"视口 {percent}%","viewer.nav.controls":"图表视图控制","viewer.nav.route":"追踪有向路径","viewer.nav.route.title":"追踪路径（R）","viewer.nav.route.short":"路径","viewer.nav.radar":"打开语义雷达","viewer.nav.radar.title":"语义雷达（M）","viewer.nav.radar.short":"地图","viewer.nav.lens":"打开语义透镜","viewer.nav.lens.title":"语义透镜（L）","viewer.nav.lens.short":"透镜","viewer.nav.find":"查找节点","viewer.nav.find.title":"查找节点（/）","viewer.nav.guide":"打开图表指南","viewer.nav.guide.title":"图表指南（?）","viewer.nav.zoomOut":"缩小","viewer.nav.zoomOut.title":"缩小（-）","viewer.nav.reset":"重置图表视图","viewer.nav.reset.title":"重置视图（0）","viewer.nav.read":"阅读","viewer.nav.zoomIn":"放大","viewer.nav.zoomIn.title":"放大（+）","viewer.nav.camera":"{hint}。重置图表视图","viewer.nav.camera.title":"{semantic}{hint} · 重置视图（0）","viewer.nav.camera.semantic":"语义相机已启用 · ","viewer.nav.level.map":"概览","viewer.nav.level.read":"阅读","viewer.nav.level.full":"完整","viewer.nav.level.auto":"自动","viewer.nav.detail.map":"放大以显示关系标签和节点上下文","viewer.nav.detail.read":"再次放大以显示标签和注释","viewer.nav.detail.full":"完整图表详情","viewer.intent.summary":"{label}。{out} 条出向，{in} 条入向{loops}。共 {total} 条连接。按 Enter 查看详情。","viewer.intent.loops":"，{count} 条自环","viewer.common.copied":"已复制","viewer.common.copyFailed":"复制失败","viewer.common.copyLink":"复制链接","viewer.common.clear":"清除","viewer.common.close":"关闭"}}</script>
     <div class="guided-views no-print" id="guided-views" hidden aria-label="图表引导视图">
       <button id="guided-view-prev" type="button" aria-label="上一个引导视图" title="上一个引导视图（[）">&#8592;</button>
@@ -5030,16 +5030,19 @@
         <path data-edge-from="iphone_hub" data-edge-to="api" data-edge-label="POST" data-edge-key="1" data-edge-id="post_iphone" data-composition-points="338.2,186;447.1,186;447.1,369;556,369" d="M 338.2 186 L 439.1 186 Q 447.1 186 447.1 194 L 447.1 361 Q 447.1 369 455.1 369 L 556 369" class="a-emphasis" stroke-width="1.8" marker-end="url(#arrowhead-emphasis)"/>
         <path data-edge-from="home_assistant" data-edge-to="api" data-edge-label="POST" data-edge-key="2" data-edge-id="post_homepod" data-composition-points="338.2,289;447.1,289;447.1,369;556,369" d="M 338.2 289 L 439.1 289 Q 447.1 289 447.1 297 L 447.1 361 Q 447.1 369 455.1 369 L 556 369" class="a-emphasis" stroke-width="1.8" marker-end="url(#arrowhead-emphasis)"/>
         <path data-edge-from="emby_proxy" data-edge-to="api" data-edge-label="POST" data-edge-key="3" data-edge-id="post_emby" data-composition-points="338.2,392;447.1,392;447.1,369;556,369" d="M 338.2 392 L 439.1 392 Q 447.1 392 447.1 384 L 447.1 377 Q 447.1 369 455.1 369 L 556 369" class="a-emphasis" stroke-width="1.8" marker-end="url(#arrowhead-emphasis)"/>
-        <path data-edge-from="api" data-edge-to="state_hub" data-edge-label="读写状态" data-edge-key="4" data-edge-id="store" data-composition-points="847.9,362;947.5,362;947.5,150;1047.1,150" d="M 847.9 362 L 939.5 362 Q 947.5 362 947.5 354 L 947.5 158 Q 947.5 150 955.5 150 L 1047.1 150" class="a-emphasis" stroke-width="1.8" marker-end="url(#arrowhead-emphasis)"/>
+        <path data-edge-from="api" data-edge-to="state_hub" data-edge-label="读写状态" data-edge-key="4" data-edge-id="store" data-composition-points="847.9,369;947.5,369;947.5,150;1047.1,150" d="M 847.9 369 L 939.5 369 Q 947.5 369 947.5 361 L 947.5 158 Q 947.5 150 955.5 150 L 1047.1 150" class="a-emphasis" stroke-width="1.8" marker-end="url(#arrowhead-emphasis)"/>
         <path data-edge-from="api" data-edge-to="sites" data-edge-label="/api/revalidate · Vercel" data-edge-key="5" data-edge-id="revalidate" data-composition-points="847.9,369;947.5,369;947.5,461;1047.1,461" d="M 847.9 369 L 939.5 369 Q 947.5 369 947.5 377 L 947.5 453 Q 947.5 461 955.5 461 L 1047.1 461" class="a-dashed" stroke-width="1.5" marker-end="url(#arrowhead-dashed)"/>
-        <path data-edge-from="sites" data-edge-to="visitors" data-edge-label="首屏 HTML" data-edge-key="6" data-edge-id="page" data-composition-points="1200,517;1200,541;1216,541;1216,711;1186.1,711;1186.1,735" d="M 1200 517 L 1200 533 Q 1200 541 1208 541 L 1208 541 Q 1216 541 1216 549 L 1216 703 Q 1216 711 1208 711 L 1194.1 711 Q 1186.1 711 1186.1 719 L 1186.1 735" class="a-default" stroke-width="1.5" marker-end="url(#arrowhead)"/>
-        <path data-edge-from="api" data-edge-to="visitors" data-edge-label="状态 API · 推送 /ws" data-edge-key="7" data-edge-id="push" data-composition-points="847.9,376;947.5,376;947.5,785;1047.1,785" d="M 847.9 376 L 939.5 376 Q 947.5 376 947.5 384 L 947.5 777 Q 947.5 785 955.5 785 L 1047.1 785" class="a-emphasis" stroke-width="1.8" marker-end="url(#arrowhead-emphasis)"/>
+        <path data-edge-from="sites" data-edge-to="visitors" data-edge-label="lyjw.me 直连" data-edge-key="6" data-edge-id="page" data-composition-points="1325.1,461;1345,461;1345,800;1186.1,800;1186.1,775" d="M 1325.1 461 L 1337 461 Q 1345 461 1345 469 L 1345 792 Q 1345 800 1337 800 L 1194.1 800 Q 1186.1 800 1186.1 792 L 1186.1 775" class="a-default" stroke-width="1.5" marker-end="url(#arrowhead)"/>
+        <path data-edge-from="api" data-edge-to="visitors" data-edge-label="状态 API · 推送 /ws" data-edge-key="7" data-edge-id="push" data-composition-points="847.9,369;947.5,369;947.5,725;1047.1,725" d="M 847.9 369 L 939.5 369 Q 947.5 369 947.5 377 L 947.5 717 Q 947.5 725 955.5 725 L 1047.1 725" class="a-emphasis" stroke-width="1.8" marker-end="url(#arrowhead-emphasis)"/>
         <path data-edge-from="api" data-edge-to="images" data-edge-label="HEAD 确认对象" data-edge-key="8" data-edge-id="head" data-composition-points="701.95,306;701.95,170" d="M 701.95 306 L 701.95 170" class="a-default" stroke-width="1.5" marker-end="url(#arrowhead)"/>
-        <path data-edge-from="images" data-edge-to="visitors" data-edge-label="图片直读" data-edge-key="9" data-edge-id="image_read" data-composition-points="701.95,70;701.95,20;1365,20;1365,785;1325.1,785" d="M 701.95 70 L 701.95 28 Q 701.95 20 709.95 20 L 1357 20 Q 1365 20 1365 28 L 1365 777 Q 1365 785 1357 785 L 1325.1 785" class="a-default" stroke-width="1.5" marker-end="url(#arrowhead)"/>
+        <path data-edge-from="images" data-edge-to="visitors" data-edge-label="图片直读" data-edge-key="9" data-edge-id="image_read" data-composition-points="701.95,70;701.95,20;1365,20;1365,725;1325.1,725" d="M 701.95 70 L 701.95 28 Q 701.95 20 709.95 20 L 1357 20 Q 1365 20 1365 28 L 1365 717 Q 1365 725 1357 725 L 1325.1 725" class="a-default" stroke-width="1.5" marker-end="url(#arrowhead)"/>
         <path data-edge-from="sites" data-edge-to="api" data-edge-label="GET /api/home" data-edge-key="10" data-edge-id="home_snapshot" data-composition-points="1047.1,461;947.5,461;947.5,369;847.9,369" d="M 1047.1 461 L 955.5 461 Q 947.5 461 947.5 453 L 947.5 377 Q 947.5 369 939.5 369 L 847.9 369" class="a-default" stroke-width="1.5" marker-end="url(#arrowhead)"/>
         <path data-edge-from="cadence_reporters" data-edge-to="api" data-edge-label="POST 上报 · GET /count (connections)" data-edge-key="11" data-edge-id="post_cadence" data-composition-points="185.3,650;185.3,550;495,550;495,369;556,369" d="M 185.3 650 L 185.3 558 Q 185.3 550 193.3 550 L 487 550 Q 495 550 495 542 L 495 377 Q 495 369 503 369 L 556 369" class="a-emphasis" stroke-width="1.8" marker-end="url(#arrowhead-emphasis)"/>
         <path data-edge-from="cadence_reporters" data-edge-to="online_counter" data-edge-label="GET /count · online" data-edge-key="12" data-edge-id="read_online" data-composition-points="338.2,705;447.1,705;447.1,680;556,680" d="M 338.2 705 L 439.1 705 Q 447.1 705 447.1 697 L 447.1 688 Q 447.1 680 455.1 680 L 556 680" class="a-dashed" stroke-width="1.5" marker-end="url(#arrowhead-dashed)"/>
-        <path data-edge-from="online_counter" data-edge-to="visitors" data-edge-label="/ws · 在线人数" data-edge-key="13" data-edge-id="online_ws" data-composition-points="847.9,680;947.5,680;947.5,785;1047.1,785" d="M 847.9 680 L 939.5 680 Q 947.5 680 947.5 688 L 947.5 777 Q 947.5 785 955.5 785 L 1047.1 785" class="a-emphasis" stroke-width="1.8" marker-end="url(#arrowhead-emphasis)"/>
+        <path data-edge-from="online_counter" data-edge-to="visitors" data-edge-label="/ws · 在线人数" data-edge-key="13" data-edge-id="online_ws" data-composition-points="847.9,680;947.5,680;947.5,725;1047.1,725" d="M 847.9 680 L 939.5 680 Q 947.5 680 947.5 688 L 947.5 717 Q 947.5 725 955.5 725 L 1047.1 725" class="a-emphasis" stroke-width="1.8" marker-end="url(#arrowhead-emphasis)"/>
+        <path data-edge-from="sites" data-edge-to="esa" data-edge-label="回源 HTML · JS" data-edge-key="14" data-edge-id="esa_origin" data-composition-points="1186.1,517;1186.1,550" d="M 1186.1 517 L 1186.1 550" class="a-default" stroke-width="1.5" marker-end="url(#arrowhead)"/>
+        <path data-edge-from="esa" data-edge-to="visitors" data-edge-label="lyjw131.com" data-edge-key="15" data-edge-id="esa_page" data-composition-points="1186.1,650;1186.1,675" d="M 1186.1 650 L 1186.1 675" class="a-default" stroke-width="1.5" marker-end="url(#arrowhead)"/>
+        <path data-edge-from="api" data-edge-to="esa" data-edge-label="PurgeCaches · 首页" data-edge-key="16" data-edge-id="esa_purge" data-composition-points="701.95,432;701.95,510;995,510;995,600;1047.1,600" d="M 701.95 432 L 701.95 502 Q 701.95 510 709.95 510 L 987 510 Q 995 510 995 518 L 995 592 Q 995 600 1003 600 L 1047.1 600" class="a-dashed" stroke-width="1.5" marker-end="url(#arrowhead-dashed)"/>
 
         <!-- Components -->
         <g id="node-mac_hub" data-node-id="mac_hub" data-node-label="Mac Telemetry Hub" tabindex="0" role="button" aria-label="聚焦Mac Telemetry Hub，MacBook Pro · 本机遥测与图片, 架构组件" aria-pressed="false" data-node-kind="external" data-node-sublabel="MacBook Pro · 本机遥测与图片" data-node-tag="/api/ingest/mac" data-node-context="架构组件">
@@ -5124,29 +5127,29 @@
 
         <g id="node-sites" data-node-id="sites" data-node-label="Next.js · Vercel" tabindex="0" role="button" aria-label="聚焦Next.js · Vercel，lyjw.me · Git 自动部署, 架构组件" aria-pressed="false" data-node-kind="backend" data-node-sublabel="lyjw.me · Git 自动部署" data-node-tag="首屏 HTML · 后台重建" data-node-context="架构组件">
           <title>Next.js · Vercel · lyjw.me · Git 自动部署 · 架构组件 · 首屏 HTML · 后台重建</title>
-          <rect x="1047.1" y="405" width="305.8" height="112" rx="6" class="c-mask"/>
-          <rect x="1047.1" y="405" width="305.8" height="112" rx="6" class="c-backend" stroke-width="1.5"/>
+          <rect x="1047.1" y="405" width="278" height="112" rx="6" class="c-mask"/>
+          <rect x="1047.1" y="405" width="278" height="112" rx="6" class="c-backend" stroke-width="1.5"/>
           <g aria-hidden="true" data-semantic-sigil="backend" class="semantic-sigil s-backend" transform="translate(1053.1 411) scale(0.6875)">
             <path d="M6 3 3 8l3 5M10 3l3 5-3 5"/>
           </g>
-          <text data-node-label="" data-detail-anchor="" x="1200" y="459" class="t-primary" font-size="11" font-weight="600" text-anchor="middle">Next.js · Vercel</text>
-        <text data-detail="context" x="1200" y="475" class="t-muted" font-size="9" text-anchor="middle">lyjw.me · Git 自动部署</text>
-        <text data-detail="fine" x="1200" y="509" class="t-backend" font-size="7" text-anchor="middle">首屏 HTML · 后台重建</text>
+          <text data-node-label="" data-detail-anchor="" x="1186.1" y="459" class="t-primary" font-size="11" font-weight="600" text-anchor="middle">Next.js · Vercel</text>
+        <text data-detail="context" x="1186.1" y="475" class="t-muted" font-size="9" text-anchor="middle">lyjw.me · Git 自动部署</text>
+        <text data-detail="fine" x="1186.1" y="509" class="t-backend" font-size="7" text-anchor="middle">首屏 HTML · 后台重建</text>
         </g>
 
         <g id="node-visitors" data-node-id="visitors" data-node-label="浏览器" tabindex="0" role="button" aria-label="聚焦浏览器，首屏 · SWR · WebSocket, 架构组件" aria-pressed="false" data-node-kind="frontend" data-node-sublabel="首屏 · SWR · WebSocket" data-node-tag="状态 /ws · 人数 /ws 分别直连" data-node-context="架构组件">
           <title>浏览器 · 首屏 · SWR · WebSocket · 架构组件 · 状态 /ws · 人数 /ws 分别直连</title>
-          <rect x="1047.1" y="735" width="278" height="100" rx="6" class="c-mask"/>
-          <rect x="1047.1" y="735" width="278" height="100" rx="6" class="c-frontend" stroke-width="1.5"/>
-          <g aria-hidden="true" data-semantic-sigil="frontend" class="semantic-sigil s-frontend" transform="translate(1053.1 741) scale(0.6875)">
+          <rect x="1047.1" y="675" width="278" height="100" rx="6" class="c-mask"/>
+          <rect x="1047.1" y="675" width="278" height="100" rx="6" class="c-frontend" stroke-width="1.5"/>
+          <g aria-hidden="true" data-semantic-sigil="frontend" class="semantic-sigil s-frontend" transform="translate(1053.1 681) scale(0.6875)">
             <rect x="2" y="3" width="12" height="10" rx="2"/>
             <path d="M2 6.5h12"/>
             <circle cx="4.1" cy="4.8" r=".7" class="sigil-fill"/>
             <circle cx="6.3" cy="4.8" r=".7" class="sigil-fill"/>
           </g>
-          <text data-node-label="" data-detail-anchor="" x="1186.1" y="783" class="t-primary" font-size="11" font-weight="600" text-anchor="middle">浏览器</text>
-        <text data-detail="context" x="1186.1" y="799" class="t-muted" font-size="9" text-anchor="middle">首屏 · SWR · WebSocket</text>
-        <text data-detail="fine" x="1186.1" y="827" class="t-frontend" font-size="7" text-anchor="middle">状态 /ws · 人数 /ws 分别直连</text>
+          <text data-node-label="" data-detail-anchor="" x="1186.1" y="723" class="t-primary" font-size="11" font-weight="600" text-anchor="middle">浏览器</text>
+        <text data-detail="context" x="1186.1" y="739" class="t-muted" font-size="9" text-anchor="middle">首屏 · SWR · WebSocket</text>
+        <text data-detail="fine" x="1186.1" y="767" class="t-frontend" font-size="7" text-anchor="middle">状态 /ws · 人数 /ws 分别直连</text>
         </g>
 
         <g id="node-images" data-node-id="images" data-node-label="R2 图片" tabindex="0" role="button" aria-label="聚焦R2 图片，Mac 与 Emby 上报器直接上传, 架构组件" aria-pressed="false" data-node-kind="cloud" data-node-sublabel="Mac 与 Emby 上报器直接上传" data-node-tag="内容地址 · 浏览器直读" data-node-context="架构组件">
@@ -5189,6 +5192,18 @@
         <text data-detail="fine" x="701.95" y="727" class="t-messagebus" font-size="7" text-anchor="middle">OnlineCounterRoom · 可见页面</text>
         </g>
 
+        <g id="node-esa" data-node-id="esa" data-node-label="阿里云 ESA" tabindex="0" role="button" aria-label="聚焦阿里云 ESA，lyjw131.com → lyjw.me, 架构组件" aria-pressed="false" data-node-kind="cloud" data-node-sublabel="lyjw131.com → lyjw.me" data-node-tag="缓存首页 HTML · 静态 JS" data-node-context="架构组件">
+          <title>阿里云 ESA · lyjw131.com → lyjw.me · 架构组件 · 缓存首页 HTML · 静态 JS</title>
+          <rect x="1047.1" y="550" width="278" height="100" rx="6" class="c-mask"/>
+          <rect x="1047.1" y="550" width="278" height="100" rx="6" class="c-cloud" stroke-width="1.5"/>
+          <g aria-hidden="true" data-semantic-sigil="cloud" class="semantic-sigil s-cloud" transform="translate(1053.1 556) scale(0.6875)">
+            <path d="M4.3 12.5h7.3a2.4 2.4 0 0 0 .2-4.8 4 4 0 0 0-7.5-1.3A3.1 3.1 0 0 0 4.3 12.5Z"/>
+          </g>
+          <text data-node-label="" data-detail-anchor="" x="1186.1" y="598" class="t-primary" font-size="11" font-weight="600" text-anchor="middle">阿里云 ESA</text>
+        <text data-detail="context" x="1186.1" y="614" class="t-muted" font-size="9" text-anchor="middle">lyjw131.com → lyjw.me</text>
+        <text data-detail="fine" x="1186.1" y="642" class="t-cloud" font-size="7" text-anchor="middle">缓存首页 HTML · 静态 JS</text>
+        </g>
+
         <!-- Connection labels -->
         <g data-detail="context" data-edge-from="mac_hub" data-edge-to="api" data-edge-label="POST" data-edge-key="0" data-edge-id="post_mac">
           <rect x="372.3" y="73" width="30" height="14" rx="3" class="c-mask"/>
@@ -5207,20 +5222,20 @@
           <text x="387.3" y="392" class="t-backend" font-size="8" text-anchor="middle">POST</text>
         </g>
         <g data-detail="context" data-edge-from="api" data-edge-to="state_hub" data-edge-label="读写状态" data-edge-key="4" data-edge-id="store">
-          <rect x="923.3" y="236" width="48.4" height="14" rx="3" class="c-mask"/>
-          <text x="947.5" y="246" class="t-backend" font-size="8" text-anchor="middle">读写状态</text>
+          <rect x="923.3" y="239.5" width="48.4" height="14" rx="3" class="c-mask"/>
+          <text x="947.5" y="249.5" class="t-backend" font-size="8" text-anchor="middle">读写状态</text>
         </g>
         <g data-detail="context" data-edge-from="api" data-edge-to="sites" data-edge-label="/api/revalidate · Vercel" data-edge-key="5" data-edge-id="revalidate">
           <rect x="815.9" y="470" width="125.19999999999999" height="14" rx="3" class="c-mask"/>
           <text x="878.5" y="480" class="t-messagebus" font-size="8" text-anchor="middle">/api/revalidate · Vercel</text>
         </g>
-        <g data-detail="context" data-edge-from="sites" data-edge-to="visitors" data-edge-label="首屏 HTML" data-edge-key="6" data-edge-id="page">
-          <rect x="1181.4" y="521" width="53.199999999999996" height="14" rx="3" class="c-mask"/>
-          <text x="1208" y="531" class="t-muted" font-size="8" text-anchor="middle">首屏 HTML</text>
+        <g data-detail="context" data-edge-from="sites" data-edge-to="visitors" data-edge-label="lyjw.me 直连" data-edge-key="6" data-edge-id="page">
+          <rect x="1226.2" y="790" width="67.6" height="14" rx="3" class="c-mask"/>
+          <text x="1260" y="800" class="t-muted" font-size="8" text-anchor="middle">lyjw.me 直连</text>
         </g>
         <g data-detail="context" data-edge-from="api" data-edge-to="visitors" data-edge-label="状态 API · 推送 /ws" data-edge-key="7" data-edge-id="push">
-          <rect x="896.9" y="560.5" width="101.2" height="14" rx="3" class="c-mask"/>
-          <text x="947.5" y="570.5" class="t-backend" font-size="8" text-anchor="middle">状态 API · 推送 /ws</text>
+          <rect x="844.4" y="580" width="101.2" height="14" rx="3" class="c-mask"/>
+          <text x="895" y="590" class="t-backend" font-size="8" text-anchor="middle">状态 API · 推送 /ws</text>
         </g>
         <g data-detail="context" data-edge-from="api" data-edge-to="images" data-edge-label="HEAD 确认对象" data-edge-key="8" data-edge-id="head">
           <rect x="665.75" y="286" width="72.4" height="14" rx="3" class="c-mask"/>
@@ -5245,6 +5260,18 @@
         <g data-detail="context" data-edge-from="online_counter" data-edge-to="visitors" data-edge-label="/ws · 在线人数" data-edge-key="13" data-edge-id="online_ws">
           <rect x="859.4" y="670" width="77.2" height="14" rx="3" class="c-mask"/>
           <text x="898" y="680" class="t-backend" font-size="8" text-anchor="middle">/ws · 在线人数</text>
+        </g>
+        <g data-detail="context" data-edge-from="sites" data-edge-to="esa" data-edge-label="回源 HTML · JS" data-edge-key="14" data-edge-id="esa_origin">
+          <rect x="1147.5" y="526" width="77.2" height="14" rx="3" class="c-mask"/>
+          <text x="1186.1" y="536" class="t-muted" font-size="8" text-anchor="middle">回源 HTML · JS</text>
+        </g>
+        <g data-detail="context" data-edge-from="esa" data-edge-to="visitors" data-edge-label="lyjw131.com" data-edge-key="15" data-edge-id="esa_page">
+          <rect x="1154.6999999999998" y="655" width="62.8" height="14" rx="3" class="c-mask"/>
+          <text x="1186.1" y="665" class="t-muted" font-size="8" text-anchor="middle">lyjw131.com</text>
+        </g>
+        <g data-detail="context" data-edge-from="api" data-edge-to="esa" data-edge-label="PurgeCaches · 首页" data-edge-key="16" data-edge-id="esa_purge">
+          <rect x="771.8" y="500" width="96.39999999999999" height="14" rx="3" class="c-mask"/>
+          <text x="820" y="510" class="t-messagebus" font-size="8" text-anchor="middle">PurgeCaches · 首页</text>
         </g>
 
         <!-- Boundary labels (foreground masks keep routes out of titles) -->
@@ -5487,10 +5514,10 @@
       <div class="card">
         <div class="card-header">
           <div class="card-dot violet"></div>
-          <h3>首屏与业务状态</h3>
+          <h3>Vercel 与 ESA</h3>
         </div>
         <ul>
-          <li>&bull; StateHub 持久化，Vercel 读首屏；API 签发 MusicKit 令牌。</li>
+          <li>&bull; API 并行发起标签失效和首页刷新；ESA 回源 Vercel。</li>
         </ul>
       </div>
     </div>
